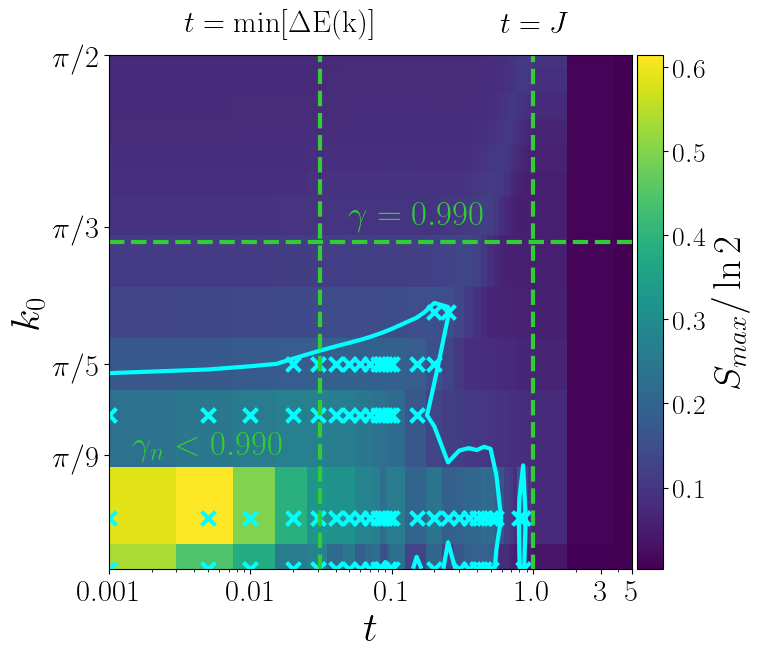
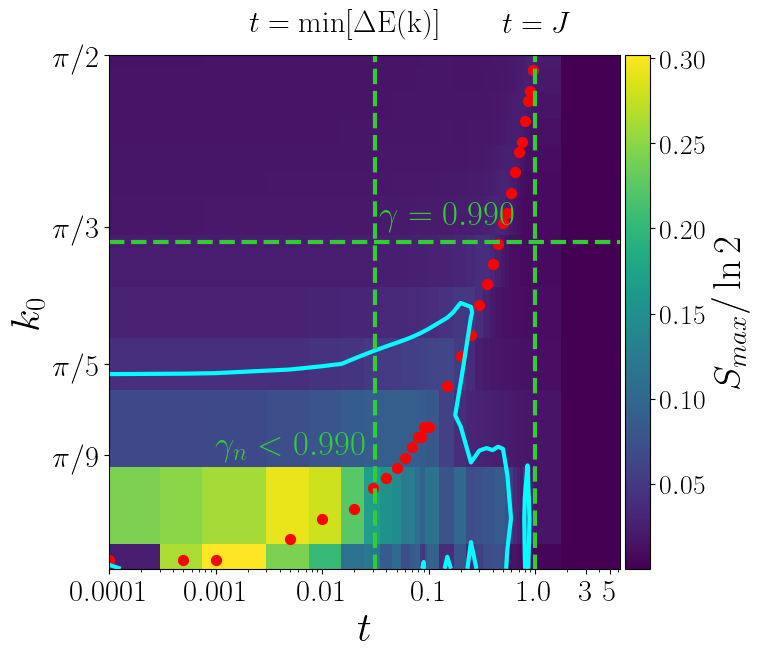
worked on the synthetization notebook
added the perturbative predictions for the resonant entropy line

diff --git a/scripts/qutip_tools.py b/scripts/qutip_tools.py
@@ -295,9 +295,9 @@ def get_purity(rho_array):
 
     
 
-# ----------------------------------------------------
+# ------------------------------------------------------------
 #  CREATING HAMILTONIANS AND OPERATORS IN QUTIP
-# ----------------------------------------------------
+# ----------------------------------------------------------
 
 def get_qpc_H(op_list, Nsites, Nqpc,jcouple):
         # create the Hamiltonian for the QPC where Nsites includes the double dot
@@ -411,6 +411,61 @@ def create_lindblad_op(Nsites, operator_list ,gamma,collapse_type="number"):
 # ------------------------------------------------------------------
 # Numpy Perturbation theory and Exact diagonalizaiton
 # ------------------------------------------------------------------
+
+
+def create_hamiltonians(L, T, Bond):
+    # creates the decoupled and interacting hamiltonians 
+    
+    # L_qpc = qpc lattice sites
+    # T = qubit hopping
+    # BOnd = index for bond locatin
+    H_matrix = np.zeros((2*L,2*L))
+    # fill in the dd hopping 
+    d_indices= kth_diag_indices(H_matrix,1)
+    H_matrix[d_indices] = -T
+    
+    # fill in the QPC hopping
+    d_indices= kth_diag_indices(H_matrix,2)
+    H_matrix[d_indices] = -J[0]
+    
+    # when qpc and qubit hop a the same time there is no contribution
+    d_indices= kth_diag_indices(H_matrix,1)
+    odd_inds = (d_indices[0][1::2], d_indices[1][1::2])
+    H_matrix[odd_inds] = 0
+    
+    # save the free hamiltonian for later use
+    Hdeco = H_matrix.copy()
+    
+    # Fill in the interaction at the bond
+    H_matrix[2*Bond,2*(Bond+1)] = H_matrix[2*Bond,2*(Bond+1)]+ Omega
+    
+    # Now the elemets below the diagonal
+    for i in range(0,2*L):
+        for j in range(i + 1, 2*L):
+            H_matrix[j, i] = H_matrix[i, j]
+            Hdeco[j, i] = Hdeco[i, j]
+            
+    return H_matrix, Hdeco
+
+
+def get_bands(Eigen_energies, Eigen_vectors, Minus_indices, Plus_indies):
+    # separates eigenvectors and eigenvalues into plus/minus enegy bands
+    # and then sorts by enegy magnitude
+    
+    # minus band
+    Energies_m = Eigen_energies[Minus_indices]
+    States_m = Eigen_vectors[:,Minus_indices]
+    # sort by magnitude
+    Energies_m, States_m = mag_sort(Energies_m, States_m)
+    
+    # plus band
+    Energies_p = Eigen_energies[Plus_indies]
+    States_p = Eigen_vectors[:,Plus_indies]
+    # sort by magnitude
+    Energies_p, States_p = mag_sort(Energies_p, States_p)
+    
+    return Energies_m, States_m, Energies_p, States_p
+
 
 def kth_diag_indices(a, k):
     # negative numbers go below the diagonal, 0 is the main diagonal and positive nums go above
